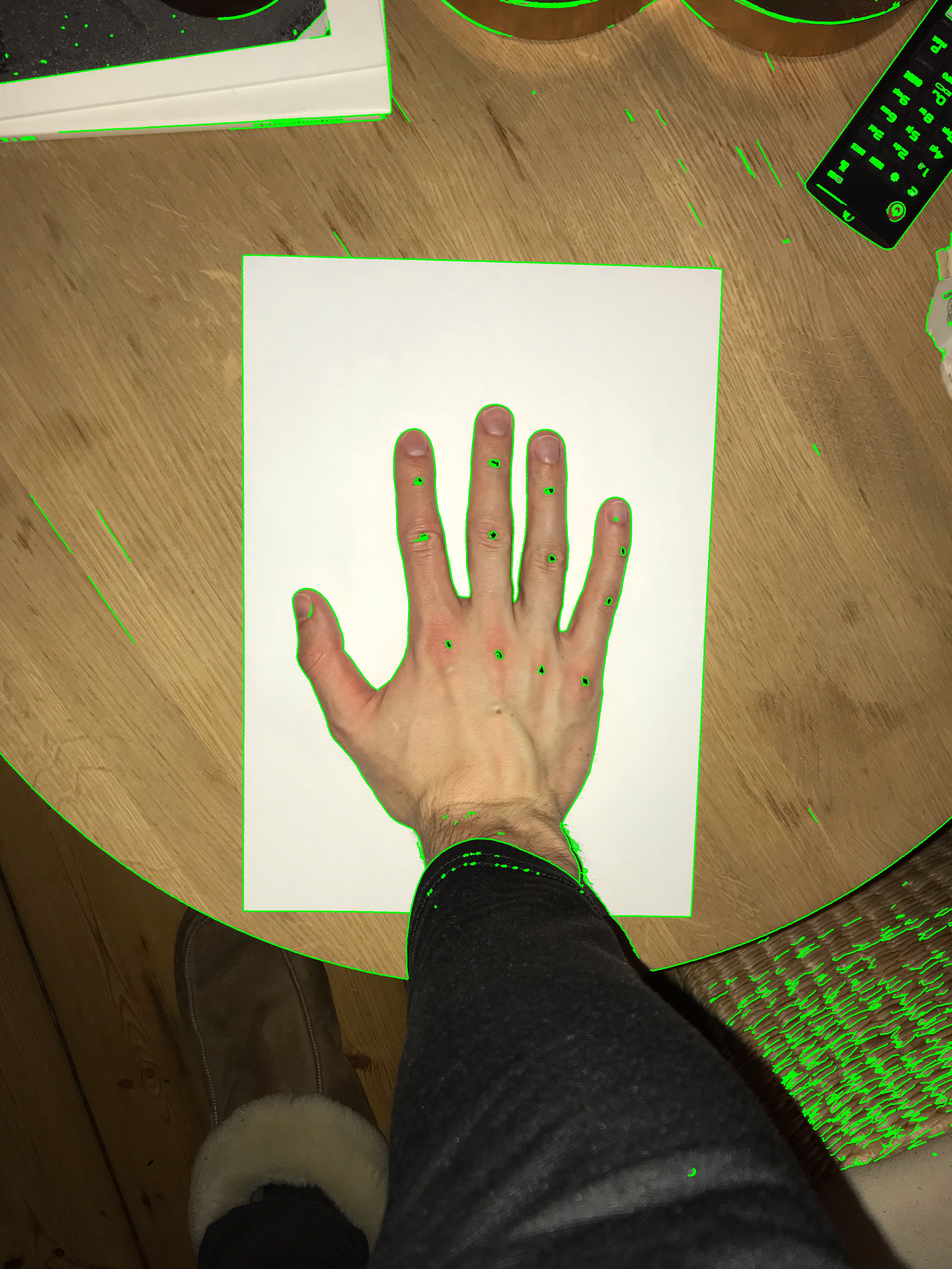
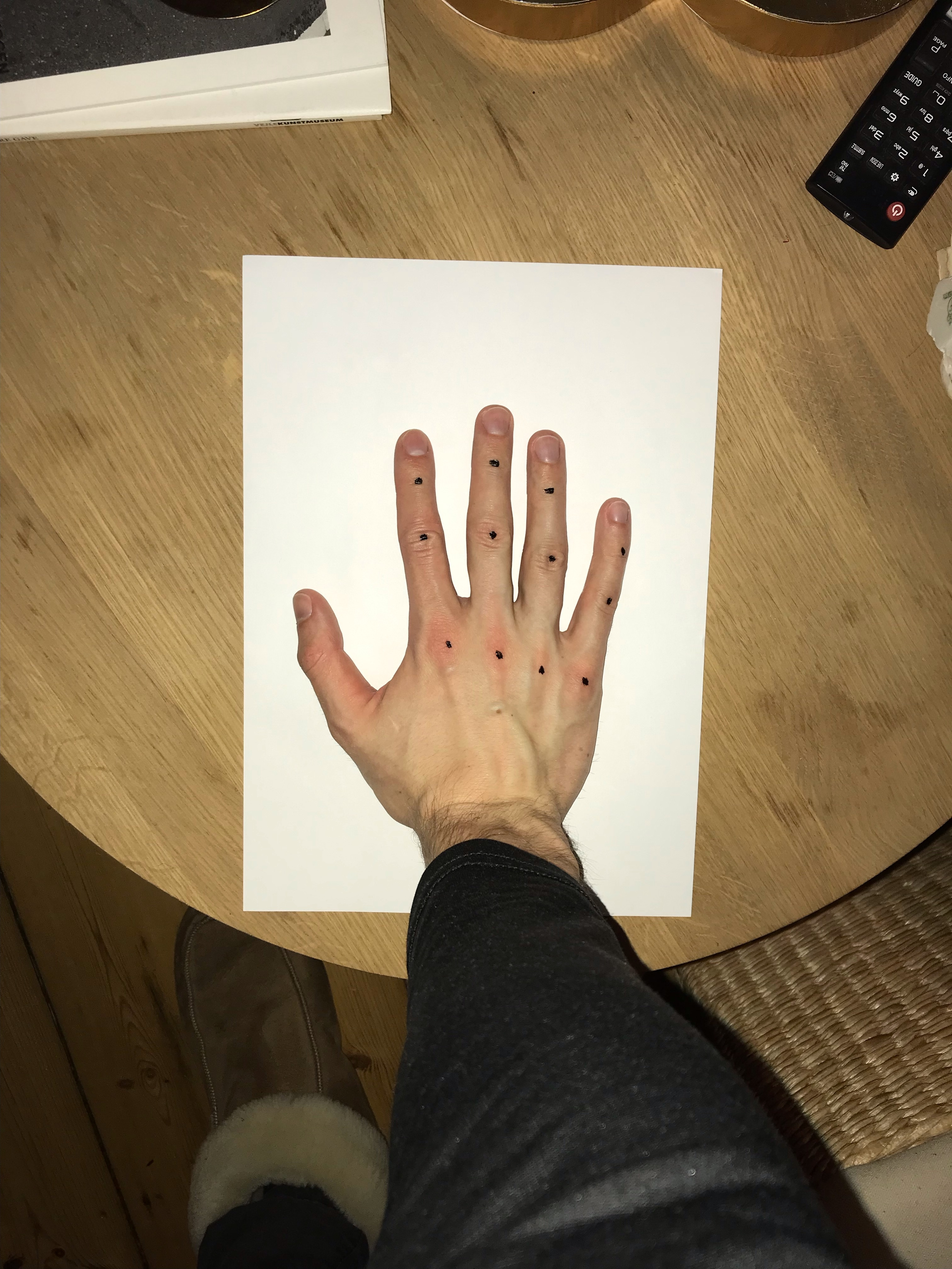
server now sends back processed jpg file

diff --git a/lib/API/api_service.dart b/lib/API/api_service.dart
@@ -10,7 +10,7 @@ class ApiService {
   This Dart code creates a http.MultipartRequest with a http.MultipartFile that contains the JPG file.
   The MultipartRequest is then sent to the Flask server using the request.send() method.
    */
-    var url = 'http://localhost:5000/upload';
+    var url = 'http://localhost:5000/upload-image';
     var currentDirectory = Directory.current;
     var imagePath = '${currentDirectory.path}/assets/niels(1).jpg';
     var file = File(imagePath);

diff --git a/python/server.py b/python/server.py
@@ -1,38 +1,36 @@
+import io
 import cv2
 import numpy as np
-from flask import Flask, jsonify, request, make_response
+import mediapipe as mp
+from flask import Flask, request, jsonify, send_file
+
+from hand_processing_controller import HandProcessor
 
 app = Flask(__name__)
 
-@app.route('/api', methods=['GET'])
-def get():
-    # TODO: Implement GET functionality
-    return jsonify({'message': 'GET response'})
-
-@app.route('/upload', methods=['POST'])
+@app.route('/upload-image', methods=['POST'])
 def upload_image():
-    # Read image from request
+    # Load image from request
     file = request.files['file']
     file_bytes = file.read()
     file_array = np.frombuffer(file_bytes, np.uint8)
     image = cv2.imdecode(file_array, cv2.IMREAD_COLOR)
 
-    # Process the image using OpenCV
-    gray = cv2.cvtColor(image, cv2.COLOR_BGR2GRAY)
-    blur = cv2.GaussianBlur(gray, (7, 7), 0)
-    canny = cv2.Canny(blur, 50, 150)
-    contours, _ = cv2.findContours(canny, cv2.RETR_TREE, cv2.CHAIN_APPROX_SIMPLE)
+    # Initialize HandProcessor
+    hand_processor = HandProcessor()
+    hand_landmarks = hand_processor.detect_hand_landmarks(image)
 
-    # Draw contours on image
-    result = cv2.drawContours(image.copy(), contours, -1, (0, 255, 0), 3)
+    # Process image and get hand landmarks
+    hand_landmarks = hand_processor.process(image)
 
-    # Convert result to JPEG and return it in the response
-    success, result_buf = cv2.imencode('.jpg', result)
-    if not success:
-        return jsonify({'message': 'Failed to encode result as JPEG'}), 500
-    response = make_response(result_buf.tobytes())
-    response.headers.set('Content-Type', 'image/jpeg')
-    return response
+    # Draw hand landmarks on image
+    drawn_image = hand_processor.draw_hand_landmarks(hand_landmarks, image)
+
+    # Convert image to JPEG format and return as response
+    success, encoded_image = cv2.imencode('.jpg', drawn_image)
+    response = encoded_image.tobytes()
+
+    return send_file(io.BytesIO(response), mimetype='image/jpeg')
 
 if __name__ == '__main__':
     app.run(debug=True)

diff --git a/python/hand_processing_controller.py b/python/hand_processing_controller.py
@@ -1,0 +1,37 @@
+import cv2
+import mediapipe as mp
+
+
+class HandProcessor:
+    def __init__(self):
+        self.mp_hands = mp.solutions.hands
+        self.hands = self.mp_hands.Hands(max_num_hands=1)
+        self.mp_drawing = mp.solutions.drawing_utils
+        self.hand_landmarks = None
+
+    def process_image(self, image):
+        image = cv2.cvtColor(image, cv2.COLOR_BGR2RGB)
+        results = self.hands.process(image)
+        if results.multi_hand_landmarks:
+            self.hand_landmarks = results.multi_hand_landmarks[0]
+
+    def draw_hand_landmarks(self, image):
+        if self.hand_landmarks:
+            for finger_name, finger_connections in mp.solutions.hands.HAND_CONNECTIONS.items():
+                for idx, conn in enumerate(finger_connections):
+                    finger_conns = conn
+                    x1, y1 = self.hand_landmarks.landmark[finger_conns[0]].x, self.hand_landmarks.landmark[
+                        finger_conns[0]].y
+                    x2, y2 = self.hand_landmarks.landmark[finger_conns[1]].x, self.hand_landmarks.landmark[
+                        finger_conns[1]].y
+                    x1, y1 = int(x1 * image.shape[1]), int(y1 * image.shape[0])
+                    x2, y2 = int(x2 * image.shape[1]), int(y2 * image.shape[0])
+                    cv2.line(image, (x1, y1), (x2, y2), (255, 0, 0), 2)
+
+
+def detect_hand_landmarks(self, image):
+    results = self.hands.process(cv2.cvtColor(image, cv2.COLOR_BGR2RGB))
+    if results.multi_hand_landmarks:
+        return results.multi_hand_landmarks[0]
+    else:
+        return None
